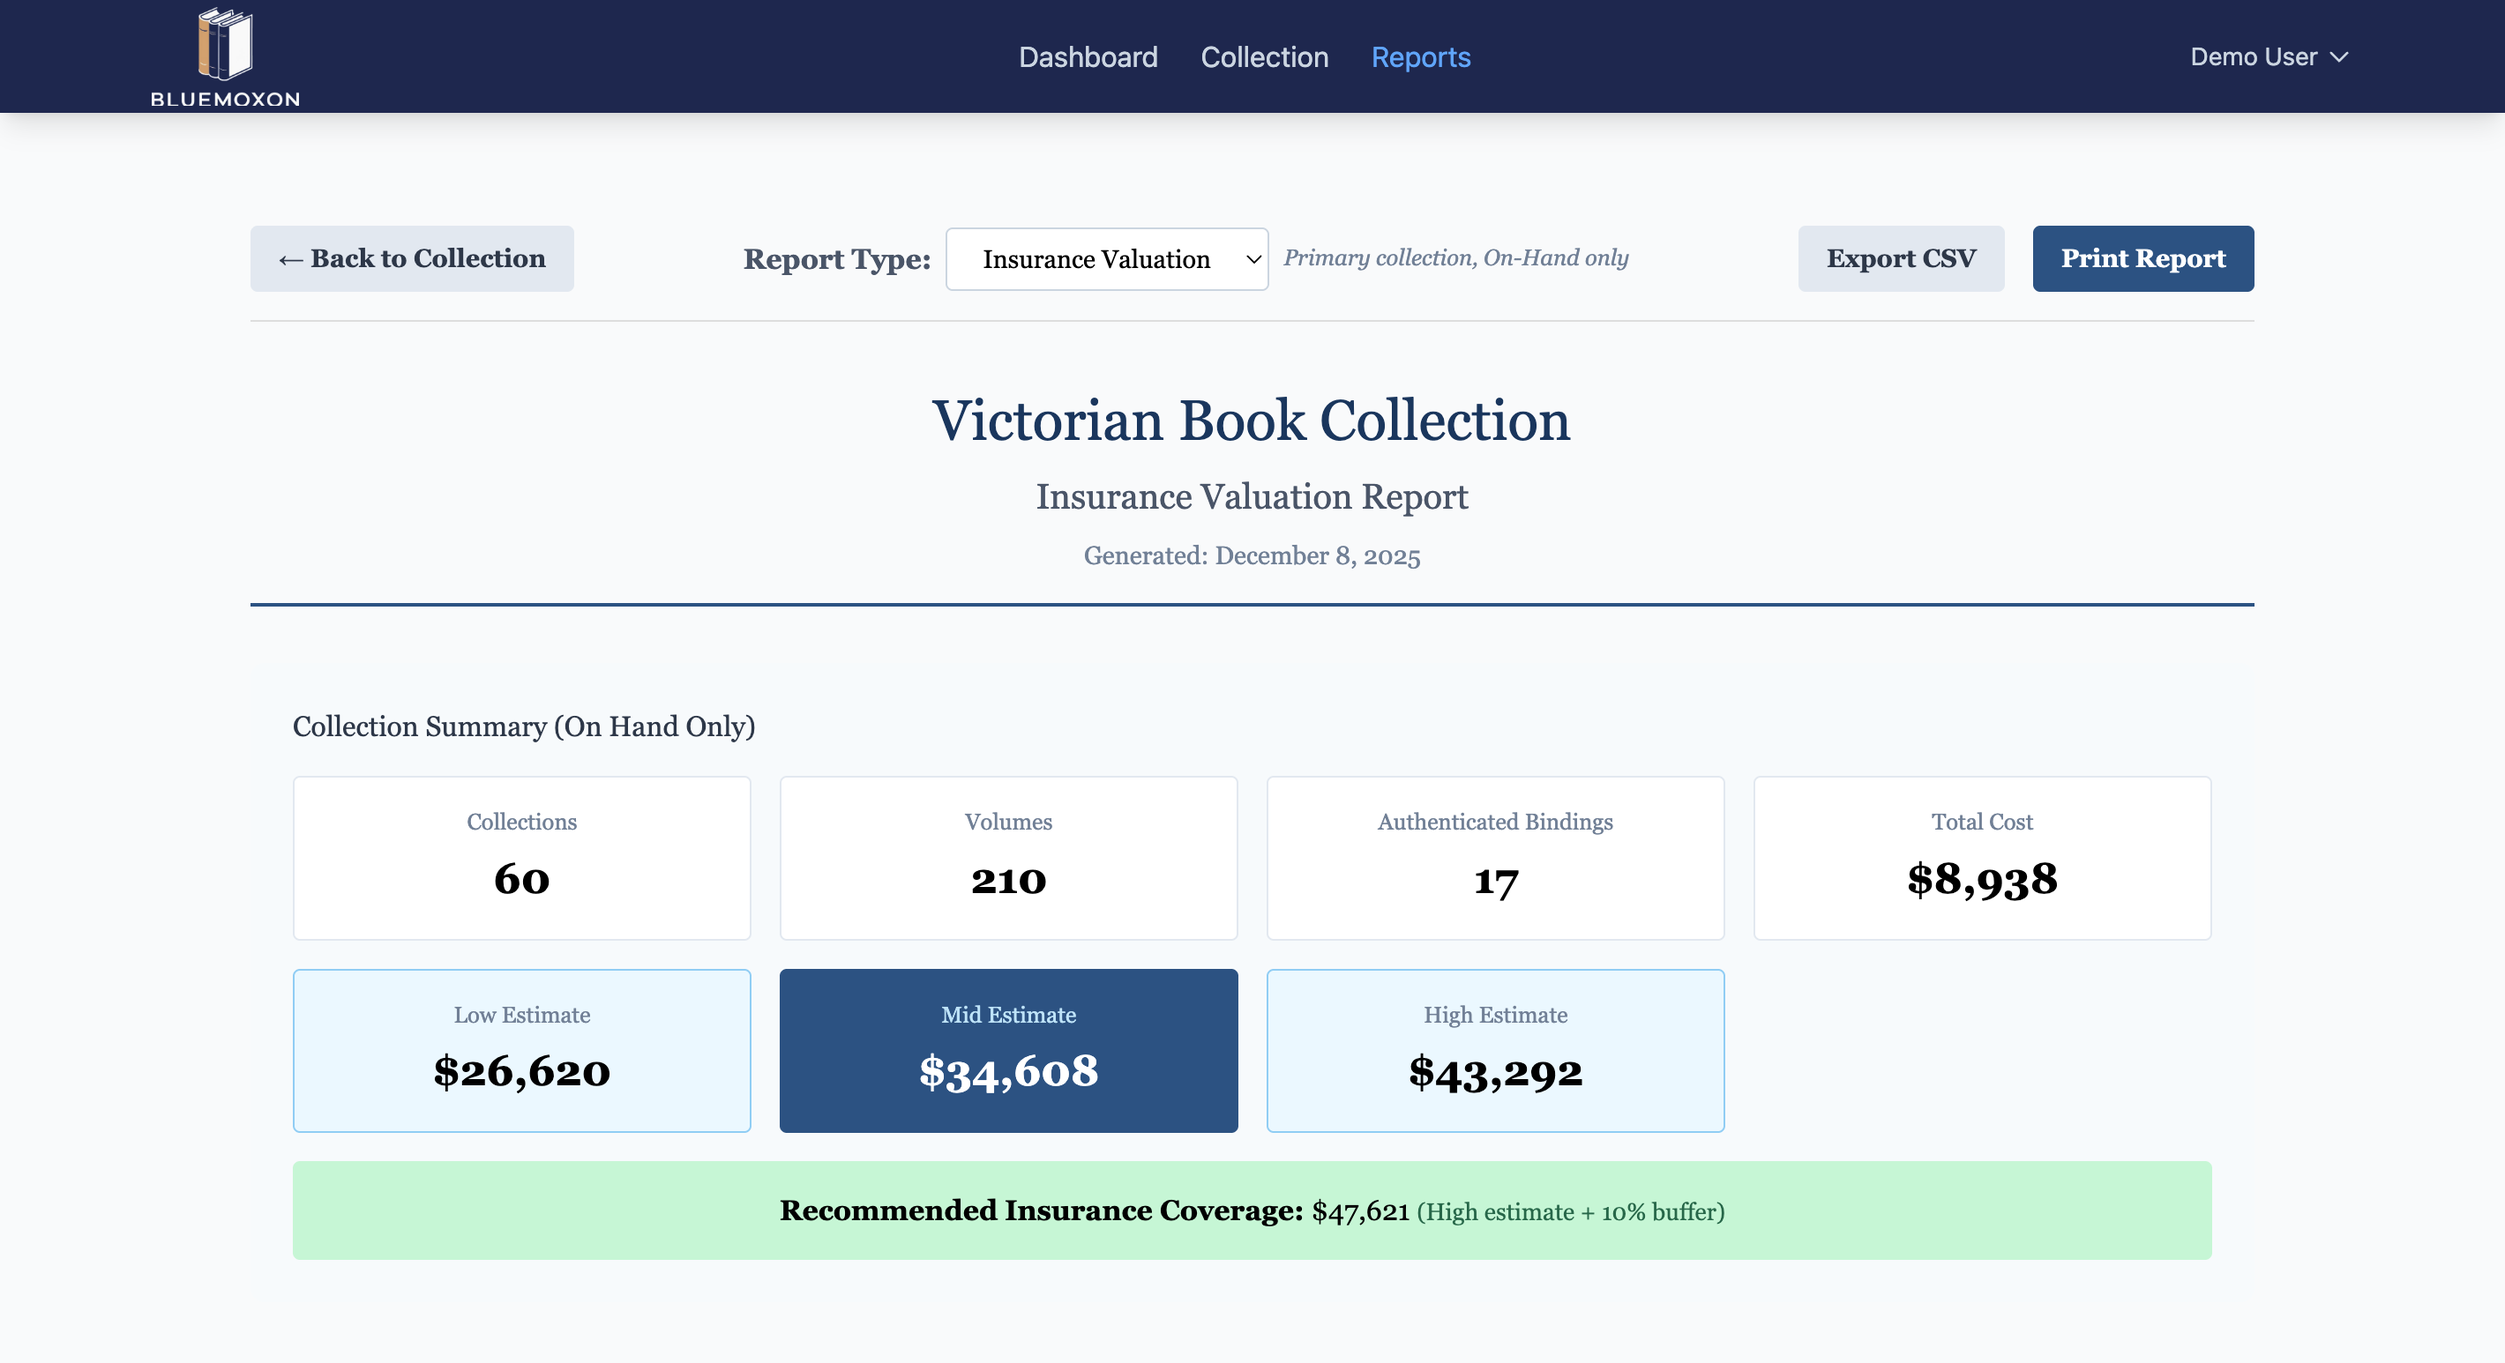
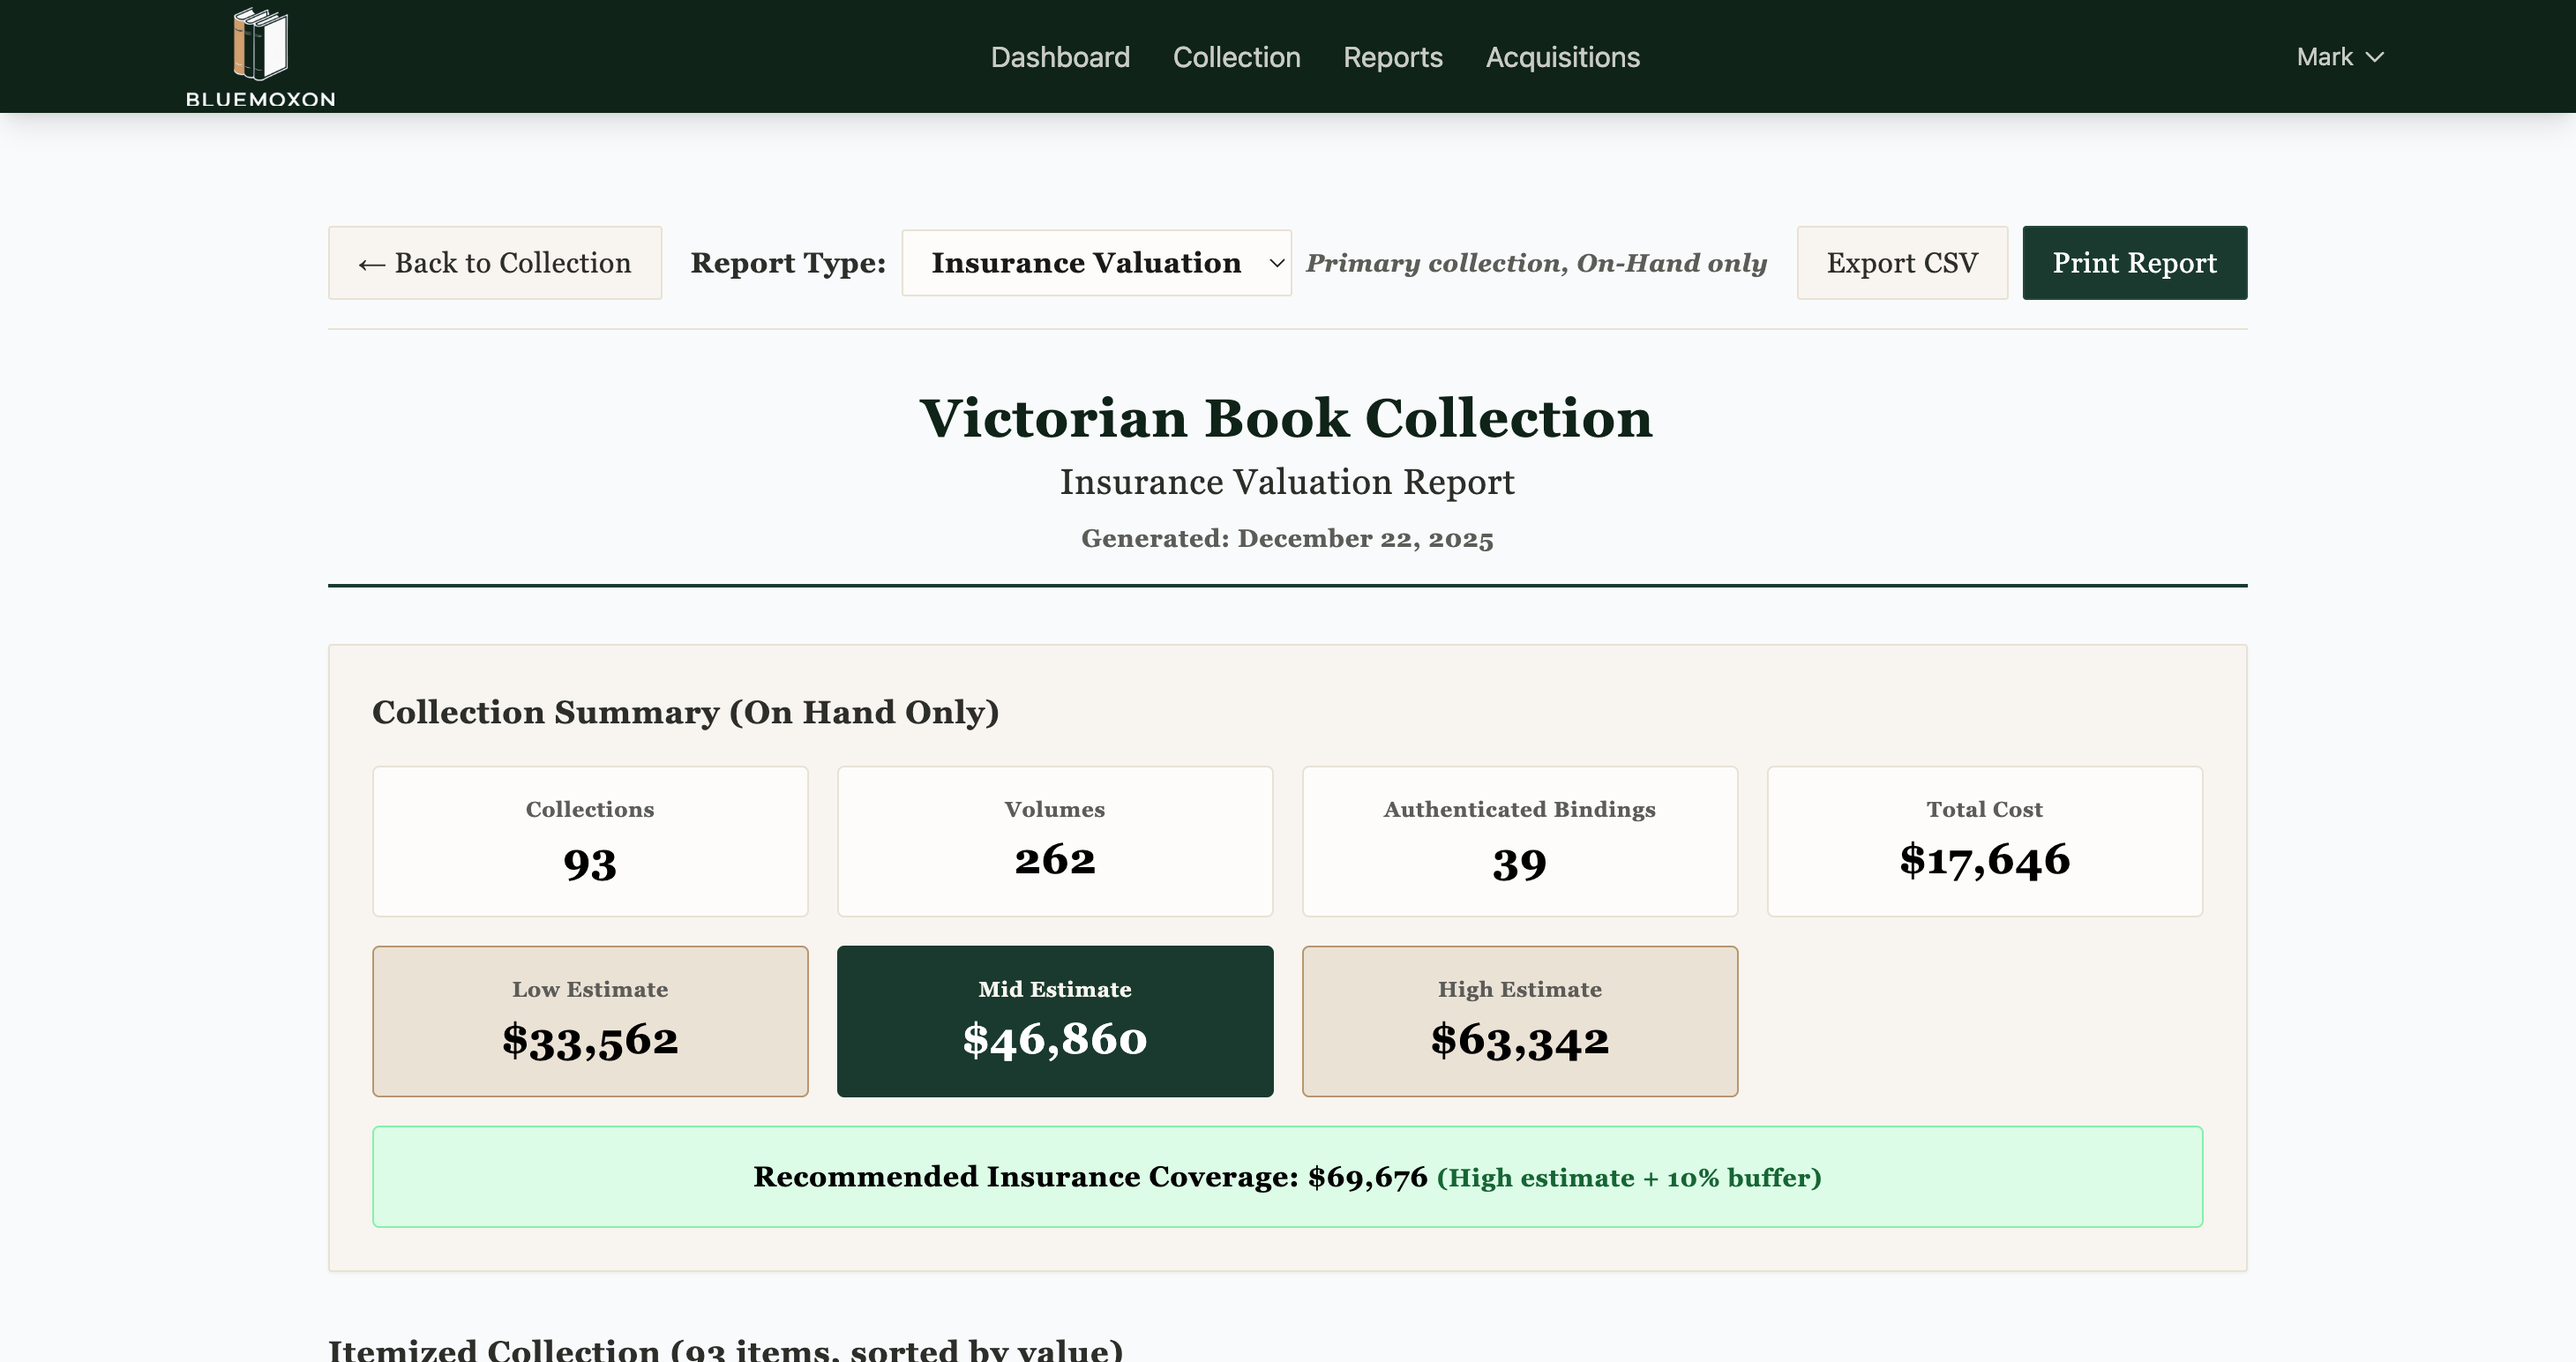
feat(site): Add acquisitions and configuration screenshots
- Retake reports.png with current data (93 collections, $46,860 estimate)
- Add acquisitions.png showing 3-column Kanban pipeline
- Add config-tiers.png showing Author/Publisher/Binder tier system
- Add config-scoring.png showing Quality Score and Strategic Fit config
- Update index.html to include new screenshots in gallery

🤖 Generated with [Claude Code](https://claude.com/claude-code)

diff --git a/site/index.html b/site/index.html
@@ -1180,6 +1180,48 @@
                     <p>CDN-delivered images with swipe gestures, thumbnails, and full-screen lightbox viewing.</p>
                 </div>
             </div>
+            <div class="screenshot-card">
+                <div class="img-wrapper" onclick="openLightbox(this)">
+                    <img src="screenshots/acquisitions.png" alt="Acquisitions Pipeline">
+                    <div class="zoom-hint">
+                        <svg xmlns="http://www.w3.org/2000/svg" fill="none" viewBox="0 0 24 24" stroke="currentColor">
+                            <path stroke-linecap="round" stroke-linejoin="round" stroke-width="2" d="M21 21l-6-6m2-5a7 7 0 11-14 0 7 7 0 0114 0zM10 7v3m0 0v3m0-3h3m-3 0H7" />
+                        </svg>
+                    </div>
+                </div>
+                <div class="content">
+                    <h4>Acquisitions Pipeline</h4>
+                    <p>Track books from eBay watchlist through delivery with Kanban board, scoring, and tracking integration.</p>
+                </div>
+            </div>
+            <div class="screenshot-card">
+                <div class="img-wrapper" onclick="openLightbox(this)">
+                    <img src="screenshots/config-tiers.png" alt="Entity Tiers Configuration">
+                    <div class="zoom-hint">
+                        <svg xmlns="http://www.w3.org/2000/svg" fill="none" viewBox="0 0 24 24" stroke="currentColor">
+                            <path stroke-linecap="round" stroke-linejoin="round" stroke-width="2" d="M21 21l-6-6m2-5a7 7 0 11-14 0 7 7 0 0114 0zM10 7v3m0 0v3m0-3h3m-3 0H7" />
+                        </svg>
+                    </div>
+                </div>
+                <div class="content">
+                    <h4>Entity Tier System</h4>
+                    <p>Configure Author, Publisher, and Binder tiers for automated Investment Grade scoring.</p>
+                </div>
+            </div>
+            <div class="screenshot-card">
+                <div class="img-wrapper" onclick="openLightbox(this)">
+                    <img src="screenshots/config-scoring.png" alt="Scoring Configuration">
+                    <div class="zoom-hint">
+                        <svg xmlns="http://www.w3.org/2000/svg" fill="none" viewBox="0 0 24 24" stroke="currentColor">
+                            <path stroke-linecap="round" stroke-linejoin="round" stroke-width="2" d="M21 21l-6-6m2-5a7 7 0 11-14 0 7 7 0 0114 0zM10 7v3m0 0v3m0-3h3m-3 0H7" />
+                        </svg>
+                    </div>
+                </div>
+                <div class="content">
+                    <h4>Scoring Configuration</h4>
+                    <p>Tune Quality Score and Strategic Fit point values, thresholds, and offer discount tiers.</p>
+                </div>
+            </div>
         </div>
     </section>
 
